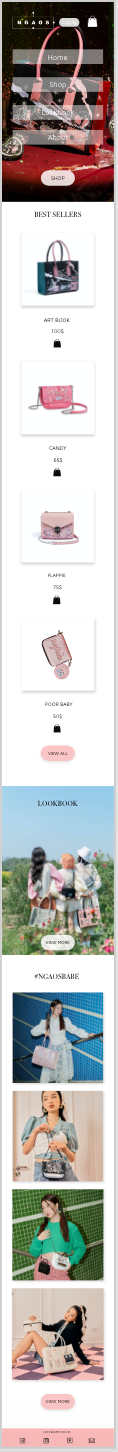
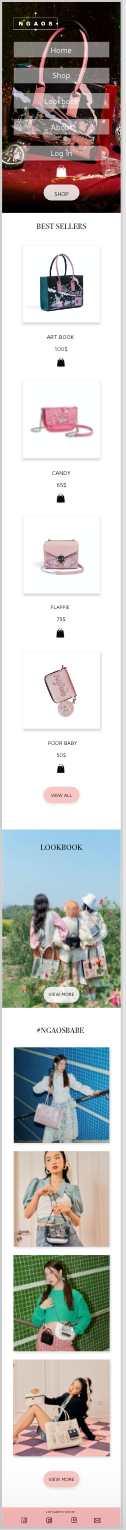
Update mock up

Changed region(s): [[0.0, 0.0, 0.9661, 1.0], [0.3559, 0.2789, 0.661, 0.5579], [0.6102, 0.2479, 0.6864, 0.3099]]

diff --git a/css/main.css b/css/main.css
@@ -437,13 +437,6 @@ table {
         text-align: center;
     }
 
-    #lookbook {
-        display: flex;
-        align-items: center;
-        flex-direction: column;
-        margin-top: 20px;
-    }
-
     #sicon a {
         color: black;
         font-size: 30px;
@@ -462,6 +455,15 @@ table {
     }
 
     /* Styling Lookbook */
+    .lookbook {
+        display: flex;
+        align-items: center;
+        flex-direction: column;
+        margin-top: 30px;
+        color:black;
+        text-decoration: none;
+    }
+
     #lookbook {
         background-image: url(../images/Lookbookmobile.jpg);
         display: flex;

diff --git a/index.html b/index.html
@@ -27,7 +27,7 @@
                 <!--Navigation bar-->
                 <div id="bimage">
                     <a href="index.html" class="current"><img class="logo"
-                            src="..//MTM6201_midterm/images/Logoicon/logowhite.png" alt="logo"></a>
+                            src="images/Logoicon/logowhite.png" alt="logo"></a>
                     <nav id="topnav">
                         <ul>
                             <li>
